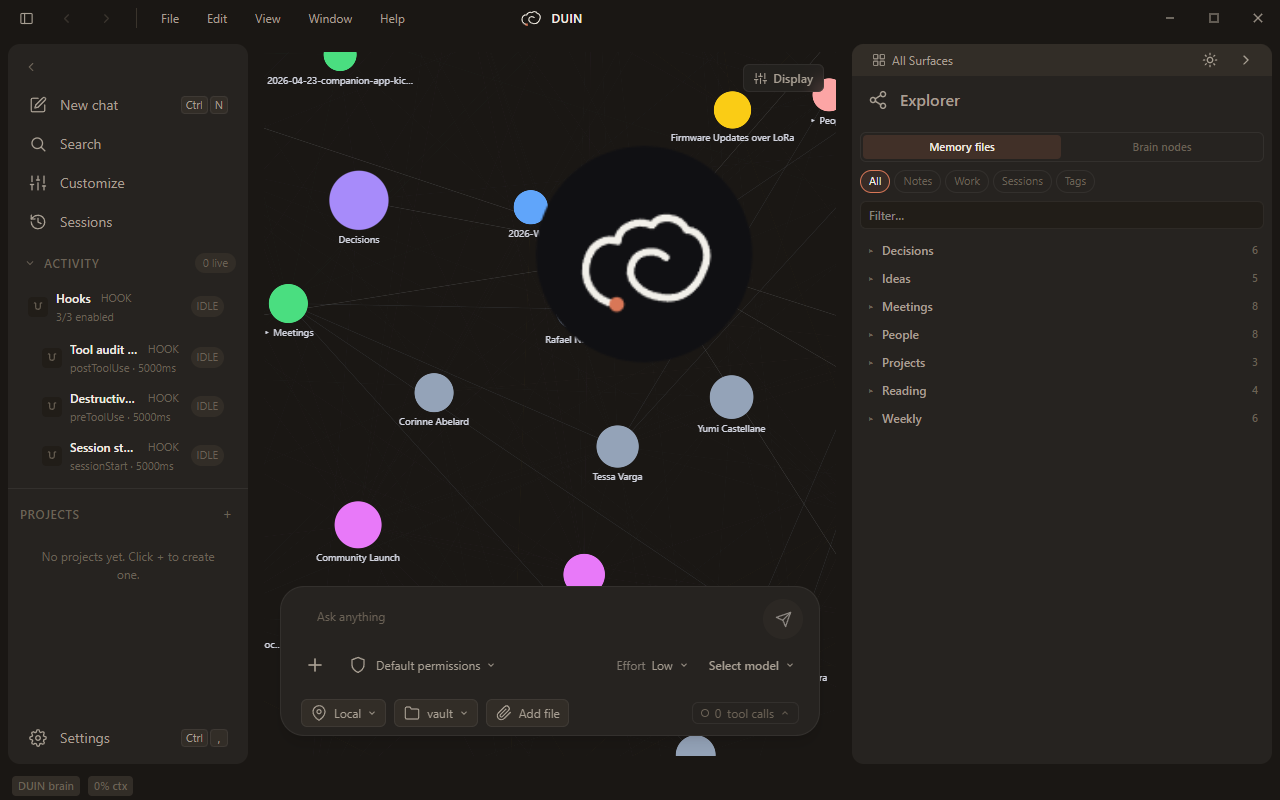
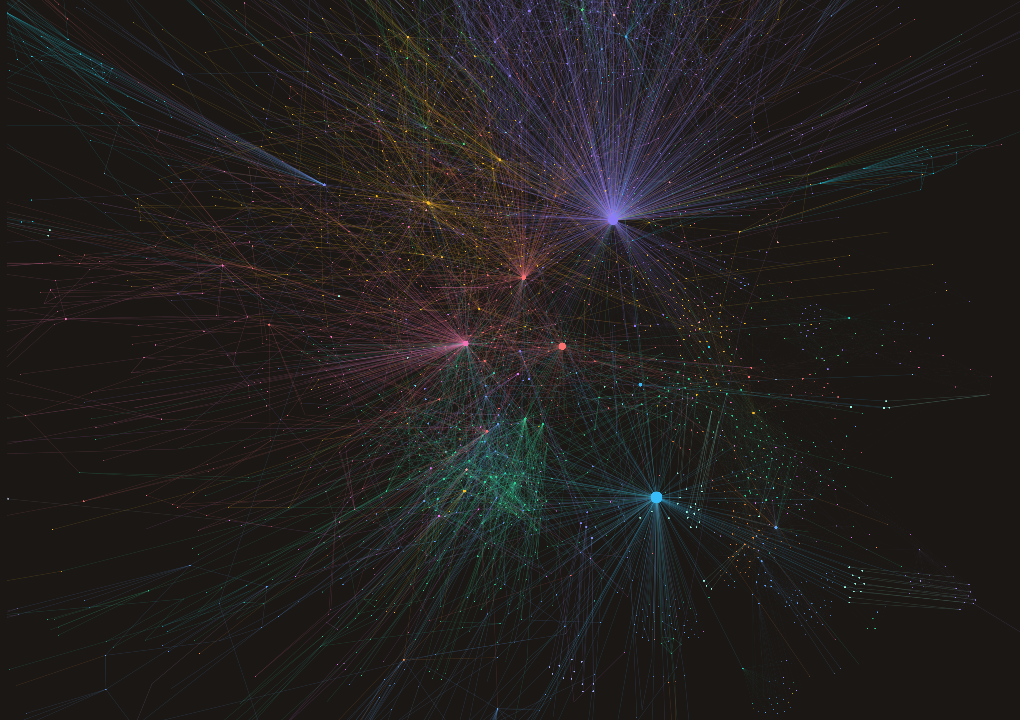
docs(readme): the Brain view of a real vault as the hero image
Captured from a live DUIN with a ~1,200-note vault; graph canvas only, no labels, no UI chrome. The welcome and grounded-answer captures remain from the fictional sample vault.

diff --git a/README.md b/README.md
@@ -16,8 +16,9 @@ choose which model, if any, it talks to.
 **Status: 0.9 — first public release, expect rough edges.**
 
 <p align="center">
-  <img src="docs/assets/screenshot-graph.png" alt="The sample vault as a knowledge graph in the Brain view" width="90%" />
+  <img src="docs/assets/screenshot-graph.png" alt="A real vault of roughly 1,200 notes in the Brain view: clusters, hubs and the threads between them" width="90%" />
 </p>
+<p align="center"><sub>A real vault of roughly 1,200 notes as DUIN sees it. The two captures below are from the fictional sample vault.</sub></p>
 <p align="center">
   <img src="docs/assets/screenshot-chat.png" alt="A grounded answer citing the notes it stood on (local model)" width="45%" />
   <img src="docs/assets/screenshot-onboarding.png" alt="First run: choose a folder of notes" width="45%" />
